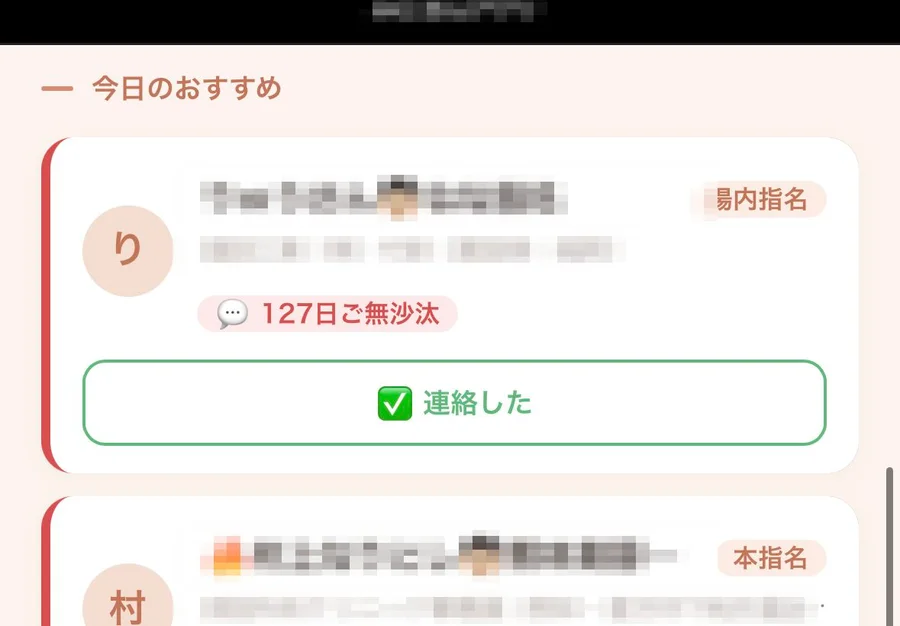
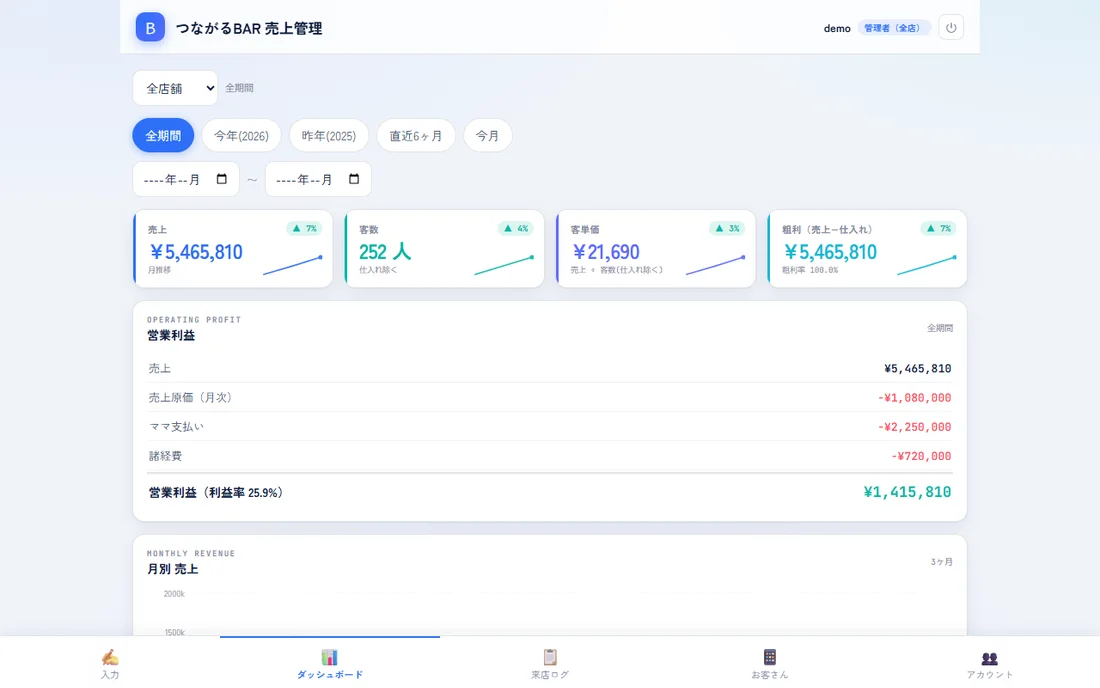
つながるBARアプリに修正（実ダッシュボード画面・売上管理の実態）＋クライアントロゴのマーキー反映
- つながる場アプリ→つながるBARアプリ: 来店登録→売上/客数/客単価/営業利益の一元ダッシュボード・顧客台帳・here
- 画像はデモデータで起動した実UIのスクリーンショット（実顧客データなし）
- 別セッション追加のクライアントロゴマーキー（実2社＋SAMPLE3枚）を取り込み

diff --git a/index.html b/index.html
@@ -21,7 +21,22 @@
   @keyframes drift2{0%,100%{transform:translate(0,0) scale(1)}50%{transform:translate(-60px,40px) scale(1.06)}}
   @keyframes drift3{0%,100%{transform:translate(0,0)}50%{transform:translate(40px,60px)}}
   @keyframes revealIn{from{opacity:0;transform:translateY(36px)}to{opacity:1;transform:none}}
+  @keyframes clientMarquee{from{transform:translateX(0)}to{transform:translateX(-50%)}}
   .reveal-in{animation:revealIn .9s cubic-bezier(.22,.8,.3,1) both}
+  .client-marquee{overflow:hidden;padding:10px 0 22px;mask-image:linear-gradient(90deg,transparent,#000 7%,#000 93%,transparent);-webkit-mask-image:linear-gradient(90deg,transparent,#000 7%,#000 93%,transparent)}
+  .client-track{display:flex;width:max-content;animation:clientMarquee 30s linear infinite;will-change:transform}
+  .client-group{display:flex;gap:20px;padding-right:20px}
+  .client-logo{width:248px;height:112px;box-sizing:border-box;display:flex;align-items:center;justify-content:center;position:relative;background:#fff;border:1px solid #E3EAE1;border-radius:16px;padding:20px 26px;box-shadow:0 8px 24px rgba(30,39,97,.055);transition:transform .25s,box-shadow .25s,border-color .25s}
+  .client-logo:hover{transform:translateY(-4px);border-color:#BCD9BF;box-shadow:0 14px 34px rgba(30,39,97,.11)}
+  .client-logo img{display:block;max-width:180px;max-height:68px;width:auto;height:auto;object-fit:contain}
+  .client-logo--square img{max-width:76px;max-height:76px}
+  .client-logo__badge{position:absolute;right:11px;bottom:9px;font-size:9px;font-weight:800;letter-spacing:.1em;color:#7A819B}
+  @media(max-width:700px){
+    .client-marquee{margin-inline:-28px;mask-image:linear-gradient(90deg,transparent,#000 12%,#000 88%,transparent);-webkit-mask-image:linear-gradient(90deg,transparent,#000 12%,#000 88%,transparent)}
+    .client-logo{width:210px;height:100px;padding:18px 22px}
+    .client-logo img{max-width:158px;max-height:58px}
+    .client-logo--square img{max-width:66px;max-height:66px}
+  }
 </style>
 </helmet>
 
@@ -147,10 +162,10 @@
       </div>
       <div style="background:#fff;border:1px solid #E3EAE1;border-top:3px solid var(--c-accent);border-radius:16px;padding:30px 28px 34px;box-shadow:0 8px 30px rgba(30,39,97,.06);transition:transform .25s,box-shadow .25s" style-hover="transform:translateY(-6px);box-shadow:0 16px 40px rgba(30,39,97,.12)">
         <div style="position:relative;height:190px;border-radius:12px;overflow:hidden;margin-bottom:20px;border:1px solid #E3EAE1">
-          <img src="./assets/tsunagaru.webp" alt="つながる場アプリの実画面（今日のおすすめ連絡先）" loading="lazy" style="position:absolute;inset:0;width:100%;height:100%;object-fit:cover;object-position:center top">
+          <img src="./assets/tsunagaru.webp" alt="つながるBARアプリの実画面（売上ダッシュボード・デモデータ）" loading="lazy" style="position:absolute;inset:0;width:100%;height:100%;object-fit:cover;object-position:center top">
         </div>
-        <p style="margin:0 0 8px;font-size:18px;font-weight:800;color:var(--c-primary)">つながる場アプリ</p>
-        <p style="margin:0;font-size:14px;line-height:2;color:#5A6180">飲食店の顧客フォローを支えるAIアプリ。来店記録をもとに、毎朝AIが「今日のおすすめ連絡先」とその人向けの文面を作ってLINEへ届けます。現場の入力は「来店したら名前をポチ」だけ。多機能な顧客管理ではなく、毎朝の一手に絞りました。</p>
+        <p style="margin:0 0 8px;font-size:18px;font-weight:800;color:var(--c-primary)">つながるBARアプリ</p>
+        <p style="margin:0;font-size:14px;line-height:2;color:#5A6180">飲食店の売上管理アプリ。来店客をスマホで1件ずつ登録するだけで、全店舗の売上・客数・客単価・営業利益までを一元ダッシュボードに。写真付きの顧客台帳や、QRを読むと「今この店にいる人」が見えるお客さん用ページ&ldquo;here&rdquo;も備えています。</p>
       </div>
       <div style="background:#fff;border:1px solid #E3EAE1;border-top:3px solid var(--c-accent);border-radius:16px;padding:30px 28px 34px;box-shadow:0 8px 30px rgba(30,39,97,.06);transition:transform .25s,box-shadow .25s" style-hover="transform:translateY(-6px);box-shadow:0 16px 40px rgba(30,39,97,.12)">
         <div style="position:relative;height:190px;border-radius:12px;overflow:hidden;margin-bottom:20px;border:1px solid #E3EAE1">
@@ -160,41 +175,43 @@
         <p style="margin:0;font-size:14px;line-height:2;color:#5A6180">「選手の今が、ひと目でわかる。」スポーツチーム向けのパフォーマンス管理システム。トラッキングデータと負荷・ウェルネス・体組成・ケガ対応をひとつの画面に集め、コンディションの変化を検知して&ldquo;今日見るべき選手&rdquo;を知らせます。</p>
       </div>
     </div>
-    <p style="margin:64px 0 20px;font-size:13px;font-family:var(--f-latin);font-weight:700;letter-spacing:.24em;color:var(--c-accent);text-transform:uppercase">Clients — 得意先</p>
-    <div style="display:flex;flex-wrap:wrap;gap:20px">
-      <div style="flex:1 1 300px;display:flex;align-items:center;gap:18px;background:#F7F8FB;border:1px solid #E3EAE1;border-radius:16px;padding:22px 26px;transition:transform .25s,box-shadow .25s" style-hover="transform:translateY(-4px);box-shadow:0 14px 34px rgba(30,39,97,.10)">
-        <div style="width:52px;height:52px;flex:0 0 auto;border-radius:50%;background:var(--c-tag-bg);display:flex;align-items:center;justify-content:center">
-          <svg viewBox="0 0 44 44" width="30" height="30" fill="none" stroke="var(--c-accent-ink)" stroke-width="2.5">
-            <g>
-              <circle cx="22" cy="22" r="12"/>
-              <line x1="10" y1="22" x2="34" y2="22"/>
-              <line x1="22" y1="10" x2="22" y2="34"/>
-              <path d="M13.5,13.5 Q22,22 13.5,30.5"/>
-              <path d="M30.5,13.5 Q22,22 30.5,30.5"/>
-              <animateTransform attributeName="transform" type="translate" values="0 0;0 -4;0 0" dur="1.3s" repeatCount="indefinite"/>
-            </g>
-          </svg>
+    <div style="display:flex;align-items:end;justify-content:space-between;gap:24px;margin:64px 0 18px">
+      <div>
+        <p style="margin:0 0 8px;font-size:13px;font-family:var(--f-latin);font-weight:700;letter-spacing:.24em;color:var(--c-accent);text-transform:uppercase">Clients — 得意先</p>
+        <p style="margin:0;font-size:14px;color:#5A6180">ご一緒している企業・プロジェクト</p>
+      </div>
+      <p style="margin:0;font-size:11px;color:#8A91A7">※ SAMPLE表記はイメージロゴです</p>
+    </div>
+    <div class="client-marquee" aria-label="クライアントロゴ">
+      <div class="client-track">
+        <div class="client-group">
+          <a class="client-logo client-logo--square" href="https://www.storks.jp/" target="_blank" rel="noopener" aria-label="神戸ストークス公式サイト">
+            <img src="./assets/client-logos/kobe-storks.png" alt="神戸ストークス" loading="lazy">
+          </a>
+          <a class="client-logo client-logo--square" href="https://tsunagarueat.com/" target="_blank" rel="noopener" aria-label="つながるEAT公式サイト">
+            <img src="./assets/client-logos/tsunagaru-eat.png" alt="つながるEAT" loading="lazy">
+          </a>
+          <div class="client-logo">
+            <img src="./assets/client-logos/fictional-harbour-link.png" alt="HARBOUR LINK（イメージロゴ）" loading="lazy">
+            <span class="client-logo__badge">SAMPLE</span>
+          </div>
+          <div class="client-logo">
+            <img src="./assets/client-logos/fictional-mori-works.png" alt="MORI WORKS（イメージロゴ）" loading="lazy">
+            <span class="client-logo__badge">SAMPLE</span>
+          </div>
+          <div class="client-logo">
+            <img src="./assets/client-logos/fictional-nesta-field.png" alt="NESTA FIELD（イメージロゴ）" loading="lazy">
+            <span class="client-logo__badge">SAMPLE</span>
+          </div>
         </div>
-        <div>
-          <p style="margin:0;font-size:17px;font-weight:800;color:var(--c-primary)">神戸ストークス</p>
-          <p style="margin:3px 0 0;font-size:13px;color:#5A6180">STORKS Performance Hub — 選手パフォーマンス分析基盤</p>
+        <div class="client-group" aria-hidden="true">
+          <div class="client-logo client-logo--square"><img src="./assets/client-logos/kobe-storks.png" alt=""></div>
+          <div class="client-logo client-logo--square"><img src="./assets/client-logos/tsunagaru-eat.png" alt=""></div>
+          <div class="client-logo"><img src="./assets/client-logos/fictional-harbour-link.png" alt=""><span class="client-logo__badge">SAMPLE</span></div>
+          <div class="client-logo"><img src="./assets/client-logos/fictional-mori-works.png" alt=""><span class="client-logo__badge">SAMPLE</span></div>
+          <div class="client-logo"><img src="./assets/client-logos/fictional-nesta-field.png" alt=""><span class="client-logo__badge">SAMPLE</span></div>
         </div>
       </div>
-      <a href="https://tsunagarueat.com/" target="_blank" rel="noopener" style="flex:1 1 300px;display:flex;align-items:center;gap:18px;background:#F7F8FB;border:1px solid #E3EAE1;border-radius:16px;padding:22px 26px;color:inherit;transition:transform .25s,box-shadow .25s" style-hover="transform:translateY(-4px);box-shadow:0 14px 34px rgba(30,39,97,.10)">
-        <div style="width:52px;height:52px;flex:0 0 auto;border-radius:50%;background:var(--c-tag-bg);display:flex;align-items:center;justify-content:center">
-          <svg viewBox="0 0 44 44" width="30" height="30" fill="none" stroke="var(--c-accent-ink)" stroke-width="2.5">
-            <g>
-              <circle cx="17" cy="22" r="9"/>
-              <circle cx="27" cy="22" r="9"/>
-              <animateTransform attributeName="transform" type="rotate" values="0 22 22;7 22 22;0 22 22;-7 22 22;0 22 22" dur="4s" repeatCount="indefinite"/>
-            </g>
-          </svg>
-        </div>
-        <div>
-          <p style="margin:0;font-size:17px;font-weight:800;color:var(--c-primary)">つながるEAT ↗</p>
-          <p style="margin:3px 0 0;font-size:13px;color:#5A6180">コミュニティ・場づくりの運営支援</p>
-        </div>
-      </a>
     </div>
   </div>
 </section>
@@ -204,7 +221,7 @@
   <div data-reveal="" style="position:relative;max-width:1120px;margin:0 auto">
     <p style="margin:0 0 12px;font-size:13px;font-family:var(--f-latin);font-weight:700;letter-spacing:.24em;color:var(--c-accent);text-transform:uppercase">Strength</p>
     <h2 style="margin:0 0 24px;font-size:clamp(26px,3vw,38px);font-weight:800;line-height:1.6;text-wrap:pretty;color:var(--c-primary)">自分たちが毎日使うアプリやサービス・仕組みを、<br data-om-id="81c82e9b:65">自分たちで作ってきた会社です。</h2>
-    <p style="margin:0 0 64px;font-size:16px;line-height:2.2;color:#5A6180;max-width:44em">宿の予約管理も、売上ダッシュボードも、まず自社の現場のために開発し、毎日使い、磨き続けています。だから机上の提案ではなく、「現場で本当に回る」システムをお届けできます。その証拠に、自社運営の宿はすべてAirbnb「ゲストチョイス」を獲得しています。</p>
+    <p style="margin:0 0 64px;font-size:16px;line-height:2.2;color:#5A6180;max-width:44em">宿の予約管理も、売上ダッシュボードも、まず自社の現場のために開発し、毎日使い、磨き続けています。だから机上の提案ではなく、「現場で本当に回る」システムをお届けできます。</p>
     <div style="display:grid;grid-template-columns:repeat(3,1fr);gap:28px">
       <div style="background:rgba(255,255,255,.85);backdrop-filter:blur(8px);border:1px solid #E3EAE1;border-top:3px solid var(--c-accent);border-radius:16px;padding:28px 28px 32px;box-shadow:0 8px 30px rgba(30,39,97,.06);transition:transform .25s,box-shadow .25s" style-hover="transform:translateY(-6px);box-shadow:0 16px 40px rgba(30,39,97,.12)">
         <p style="margin:0 0 10px;font-size:18px;font-weight:800;color:var(--c-primary)">現場に入り込む</p>
@@ -330,8 +347,28 @@ class Component extends DCLogic {
     this._observeReveals = () => document.querySelectorAll('[data-reveal]:not(.reveal-in)').forEach(el => this._io.observe(el));
     setTimeout(this._observeReveals, 400);
     setTimeout(this._observeReveals, 1500);
+    // CSS animation can be disabled by OS/browser motion settings, so drive the
+    // client logo lane directly to guarantee the requested continuous movement.
+    this._logoOffset = 0;
+    this._logoLastFrame = performance.now();
+    this._moveClientLogos = (now) => {
+      const track = document.querySelector('.client-track');
+      const firstGroup = track?.querySelector('.client-group');
+      if (track && firstGroup && firstGroup.offsetWidth > 0) {
+        const elapsed = Math.min(now - this._logoLastFrame, 50);
+        this._logoOffset = (this._logoOffset + elapsed * 0.045) % firstGroup.offsetWidth;
+        track.style.animation = 'none';
+        track.style.transform = `translate3d(${-this._logoOffset}px,0,0)`;
+      }
+      this._logoLastFrame = now;
+      this._logoFrame = requestAnimationFrame(this._moveClientLogos);
+    };
+    this._logoFrame = requestAnimationFrame(this._moveClientLogos);
   }
-  componentWillUnmount() { if (this._io) this._io.disconnect(); }
+  componentWillUnmount() {
+    if (this._io) this._io.disconnect();
+    if (this._logoFrame) cancelAnimationFrame(this._logoFrame);
+  }
   componentDidUpdate() { this._applyPalette(); }
   renderVals() {
     const count = this.props.newsCount ?? 4;
